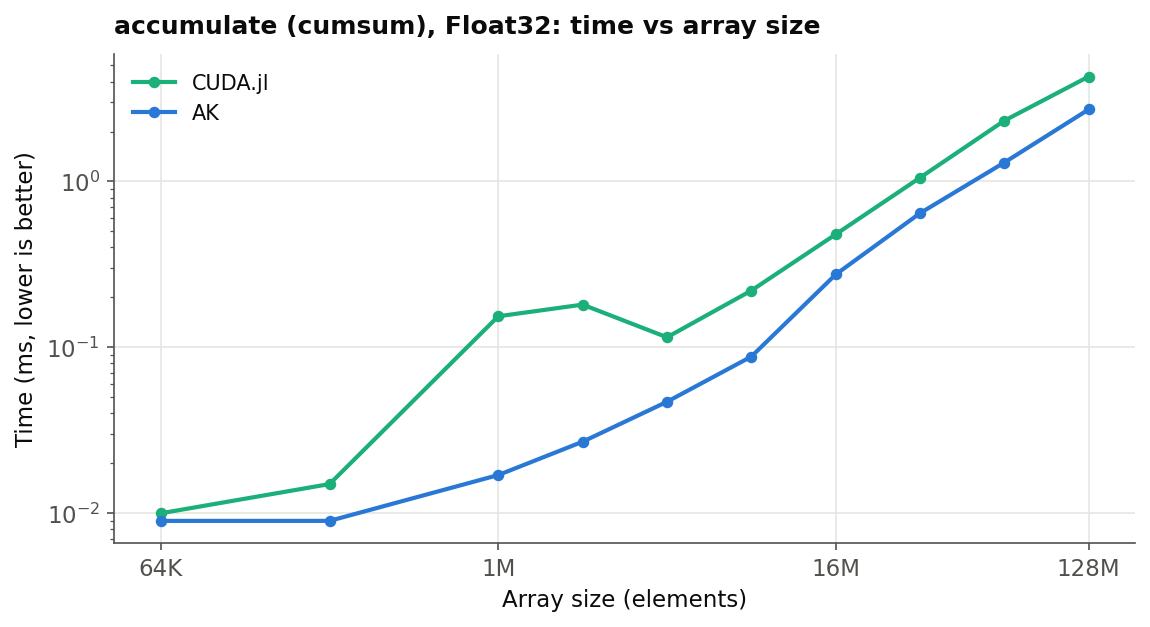
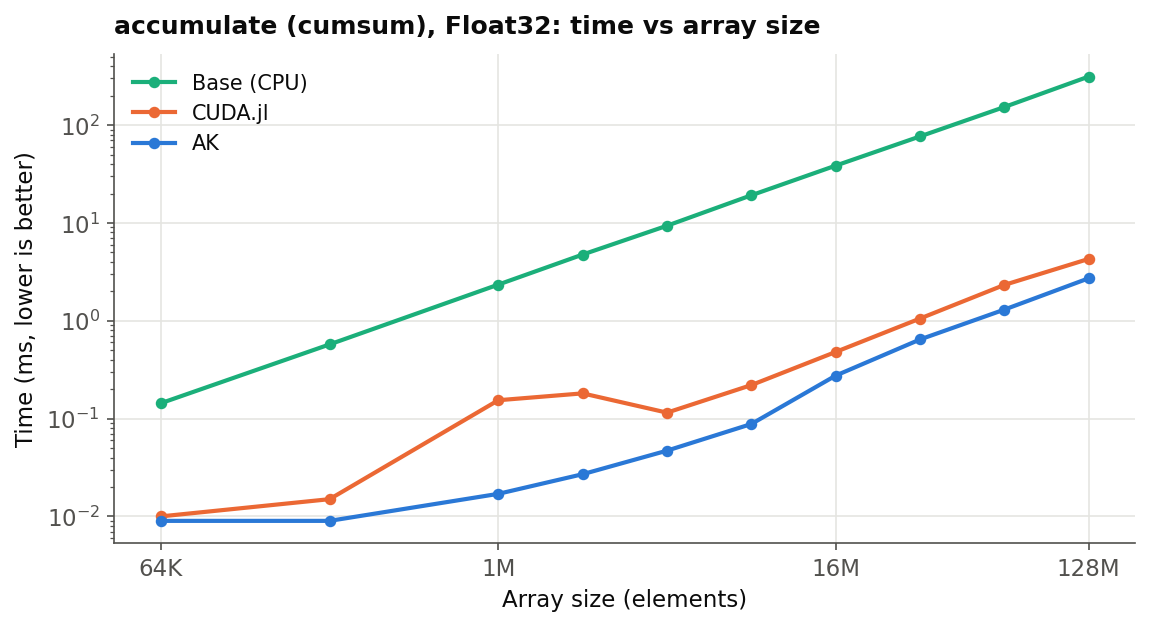
Add CPU Base line to benchmark charts alongside CUDA.jl and AK

diff --git a/post/2026-10-14-gsoc-portability/index.md b/post/2026-10-14-gsoc-portability/index.md
@@ -5,8 +5,9 @@ abstract = """
   This Google Summer of Code 2026 project added the data-parallel primitives that
   the Julia GPU stack was missing and tuned them to serve as the shared
   implementation for every backend. The work was merged as 15 pull requests in
-  AcceleratedKernels.jl 0.5. A benchmark run on an NVIDIA RTX 5080 compares each
-  operation against the current CUDA.jl implementation."""
+  AcceleratedKernels.jl 0.5. A benchmark compares each operation against
+  single-threaded CPU Julia and the current CUDA.jl GPU implementation on an
+  NVIDIA RTX 5080."""
 +++
 
 {{abstract}}
@@ -71,19 +72,28 @@ atomic histograms, chunked scatter), added a `BitonicSort` network for short sli
 and added a segmented `RadixSort` path for sorting along `dims` whose cost depends
 little on slice length. The `Auto()` selector chooses between them per input.
 
-**Benchmarking.** Each operation was measured as an AK kernel against the CUDA.jl
-implementation on the same data on an NVIDIA RTX 5080, timed on the device with
-`CUDA.@elapsed`, taking the minimum of 12 runs, warmed, refreshing the input each
-iteration for mutating operations, and using AK's default settings with no per-device
-tuning. The results per operation follow.
+**Benchmarking.** Each operation was measured three ways on the same data: as an AK
+kernel, as the CUDA.jl GPU path, and as single-threaded CPU Julia. The GPU runs were
+on an NVIDIA RTX 5080, timed on the device with `CUDA.@elapsed`, taking the minimum of
+12 runs, warmed, refreshing the input each iteration for mutating operations, and using
+AK's default settings with no per-device tuning. The CPU runs used single-threaded
+Julia (`Base`) on the host, timed with the minimum of a few warmed runs. The results
+per operation follow.
 
 ## Results by operation
 
 In every chart, lower time is better, and both axes use a logarithmic scale unless
-noted. The `CUDA.jl` series is the GPU method that runs today when the standard
-function (`sort!`, `sortperm`, `cumsum!`, `sum`, `findall`, `reverse!`, `map!`) is
-called on a `CuArray`, which goes through CUDA.jl and GPUArrays.jl. The `AK` series is
-the AcceleratedKernels.jl kernel on the same data.
+noted. The three series are:
+
+- **Base (CPU):** single-threaded CPU Julia (`sort!`, `sortperm`, `cumsum!`, `sum`,
+  `findall`, `reverse!`, `map!`) on a host `Array`. This is the slowest reference and
+  sits above the two GPU lines.
+- **CUDA.jl:** the GPU method that runs today when the same standard function is called
+  on a `CuArray`, which goes through CUDA.jl and GPUArrays.jl.
+- **AK:** the AcceleratedKernels.jl kernel.
+
+The comparison that matters for this project is `AK` against `CUDA.jl`, since both run
+on the GPU. `Base (CPU)` is included for context.
 
 ### Sort
 
